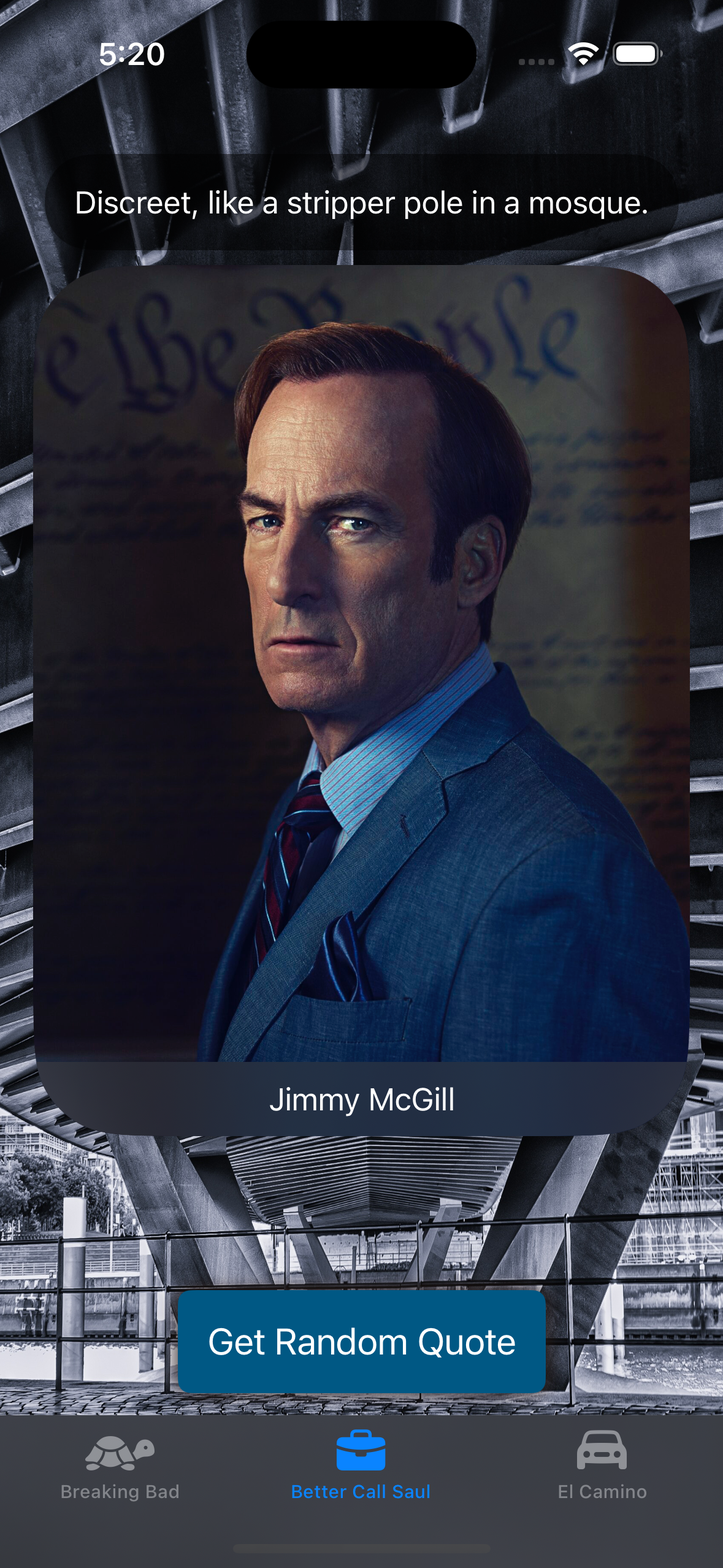
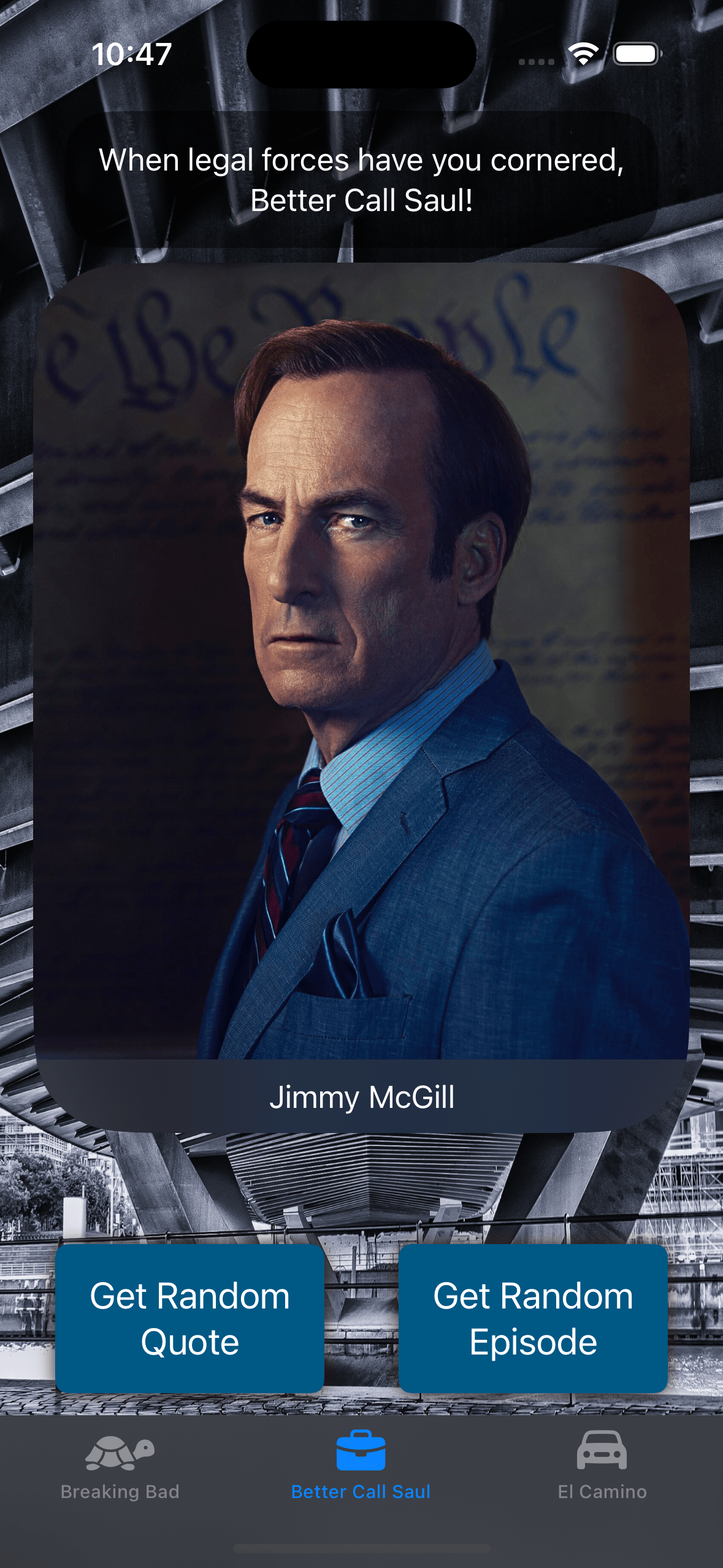
docs: update README and demo assets to include episode feature

diff --git a/README.md b/README.md
@@ -20,14 +20,15 @@
     <img src="_Demo/2-mockup-better-call-saul.png" width="30%" alt="Better Call Saul">&nbsp;&nbsp;&nbsp;
     <img src="_Demo/3-mockup-el-camino.png" width="30%" alt="El Camino">
     <br><br>
-    <img src="_Demo/4-mockup-character-detail.png" width="30%" alt="Character Detail">&nbsp;&nbsp;&nbsp;
-    <img src="_Demo/5-mockup-character-detail-status.png" width="30%" alt="Character Detail Status">
+    <img src="_Demo/4-mockup-episode.png" width="30%" alt="Episode">&nbsp;&nbsp;&nbsp;
+    <img src="_Demo/5-mockup-character-detail.png" width="30%" alt="Character Detail">&nbsp;&nbsp;&nbsp;
+    <img src="_Demo/6-mockup-character-detail-status.png" width="30%" alt="Character Detail Status">
   </div>
 
 </div>
 
 ## Overview
-BBQuotes is a SwiftUI application that showcases quotes from the Breaking Bad universe, including Breaking Bad, Better Call Saul, and El Camino. The app allows users to view random quotes, character information, and explore details about their favorite characters from these iconic TV series.
+BBQuotes is a SwiftUI application that showcases quotes and episodes from the Breaking Bad universe, including Breaking Bad, Better Call Saul, and El Camino. The app allows users to view random quotes, character information, explore details about their favorite characters, and get information about random episodes from these iconic TV series.
 
 Based on the Udemy course [iOS 18, SwiftUI 6, & Swift 6: Build iOS Apps From Scratch](https://www.udemy.com/course/ios-15-app-development-with-swiftui-3-and-swift-5/), **with the following implementations by myself**:
 
@@ -36,10 +37,12 @@ Based on the Udemy course [iOS 18, SwiftUI 6, & Swift 6: Build iOS Apps From Scr
 - [Unit tests](https://github.com/uhcakip/BBQuotes/tree/master/BBQuotesTests) for API client and view models
 - Enhanced API client with [generic `makeRequest` function](https://github.com/uhcakip/BBQuotes/blob/12f7134b8e4e49b191049caba347f5b3e2a7d0a8/BBQuotes/Clients/APIClient.swift#L38)
 - Improved error handling with [custom `APIError` messages](https://github.com/uhcakip/BBQuotes/blob/12f7134b8e4e49b191049caba347f5b3e2a7d0a8/BBQuotes/Clients/APIClient.swift#L70)
+- Added feature to fetch and display random episode information
 
 ## Features
 - Fetch and display random quotes from Breaking Bad, Better Call Saul, and El Camino
 - View detailed character information, including images, occupations, and status
+- Fetch and display random episode information, including title, season, episode number, and synopsis
 - Toggle between different TV series
 - Error handling and user feedback
 
@@ -56,6 +59,7 @@ Based on the Udemy course [iOS 18, SwiftUI 6, & Swift 6: Build iOS Apps From Scr
 │   ├── Models
 │   │   ├── Character.swift
 │   │   ├── Death.swift
+│   │   ├── Episode.swift
 │   │   ├── Production.swift
 │   │   └── Quote.swift
 │   ├── Screens
@@ -63,11 +67,13 @@ Based on the Udemy course [iOS 18, SwiftUI 6, & Swift 6: Build iOS Apps From Scr
 │   │   │   └── Views
 │   │   │       └── CharacterView.swift
 │   │   ├── ContentView.swift
-│   │   └── Quote
+│   │   └── QuoteEpisode
 │   │       ├── ViewModels
-│   │       │   └── QuoteViewModel.swift
+│   │       │   └── QuoteEpisodeViewModel.swift
 │   │       └── Views
-│   │           └── QuoteView.swift
+│   │           ├── QuoteView.swift
+│   │           ├── EpisodeView.swift
+│   │           └── QuoteEpisodeView.swift
 │   └── Utils
 │       └── MockData.swift
 ├── BBQuotesTests
@@ -77,9 +83,9 @@ Based on the Udemy course [iOS 18, SwiftUI 6, & Swift 6: Build iOS Apps From Scr
 │   ├── Models
 │   │   └── ProductionTests.swift
 │   └── Screens
-│       └── Quote
+│       └── QuoteEpisode
 │           └── ViewModels
-│               └── QuoteViewModelTests.swift
+│               └── QuoteEpisodeViewModelTests.swift
 ```
 
 ## Packages
